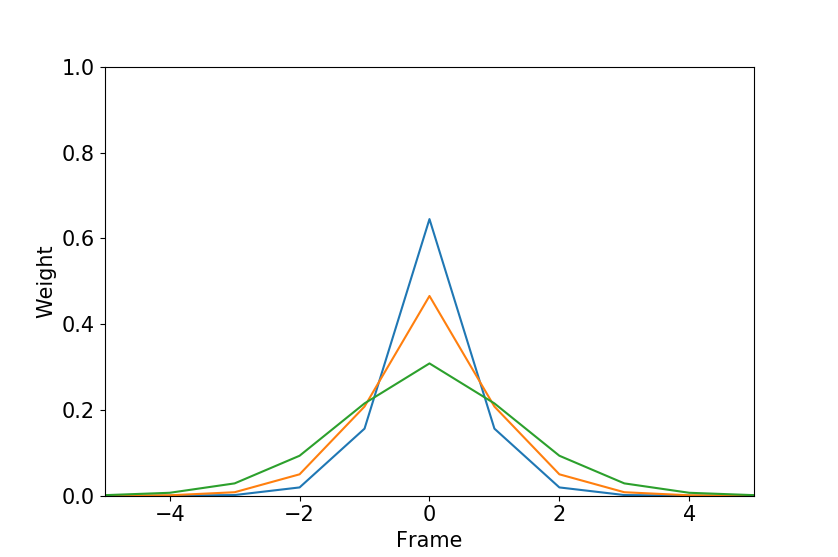
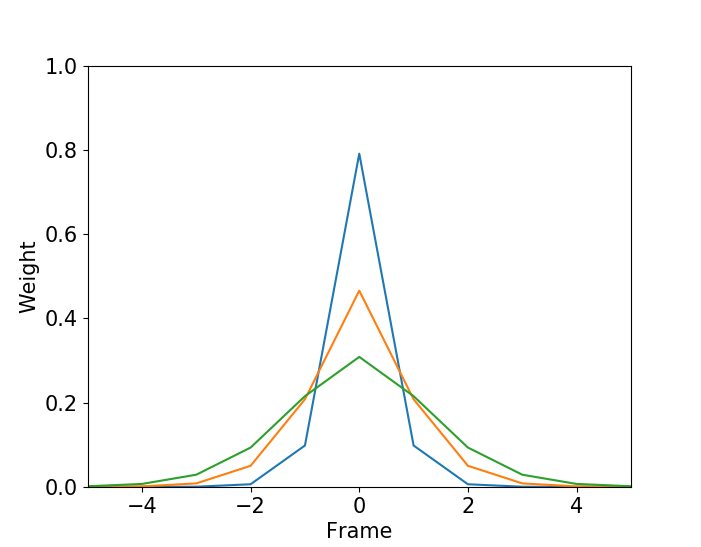
update

diff --git a/test.py b/test.py
@@ -14,7 +14,7 @@ How to use discrete_gaussian_kernel()
 scipy.special.iv(n, t): Modified Bessel function of the first kind of real order.
 '''
 ns = np.arange(-5, 5+1)
-y0 = discrete_gaussian_kernel(0.5, ns)
+y0 = discrete_gaussian_kernel(0.25, ns)
 y1 = discrete_gaussian_kernel(1, ns)
 y2 = discrete_gaussian_kernel(2, ns)
 plt.plot(ns, y0, ns, y1, ns, y2)
